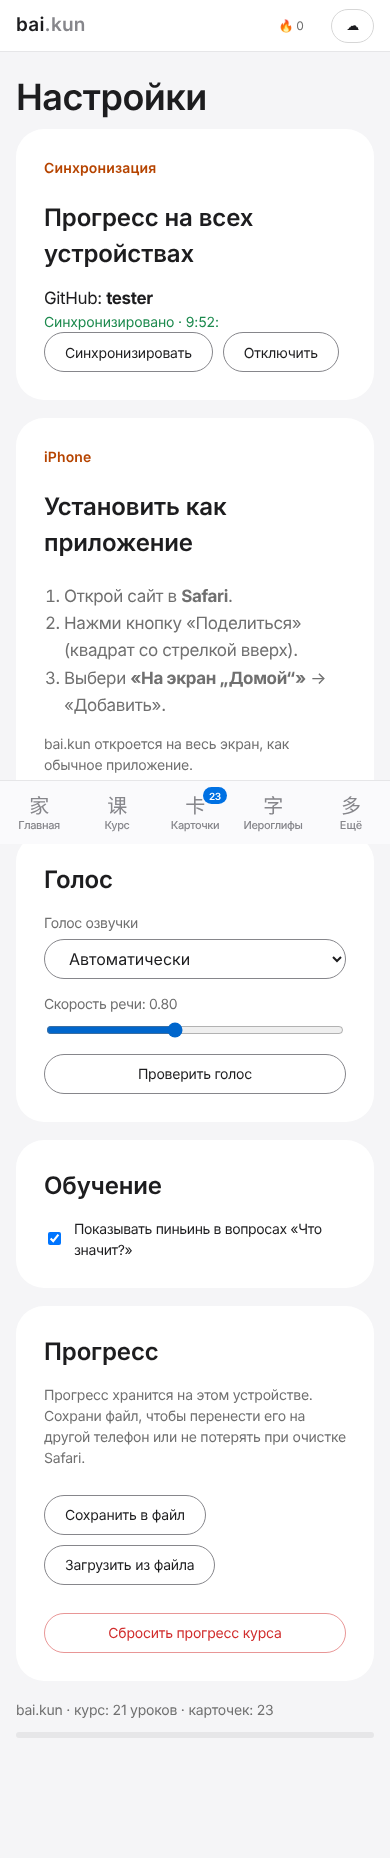
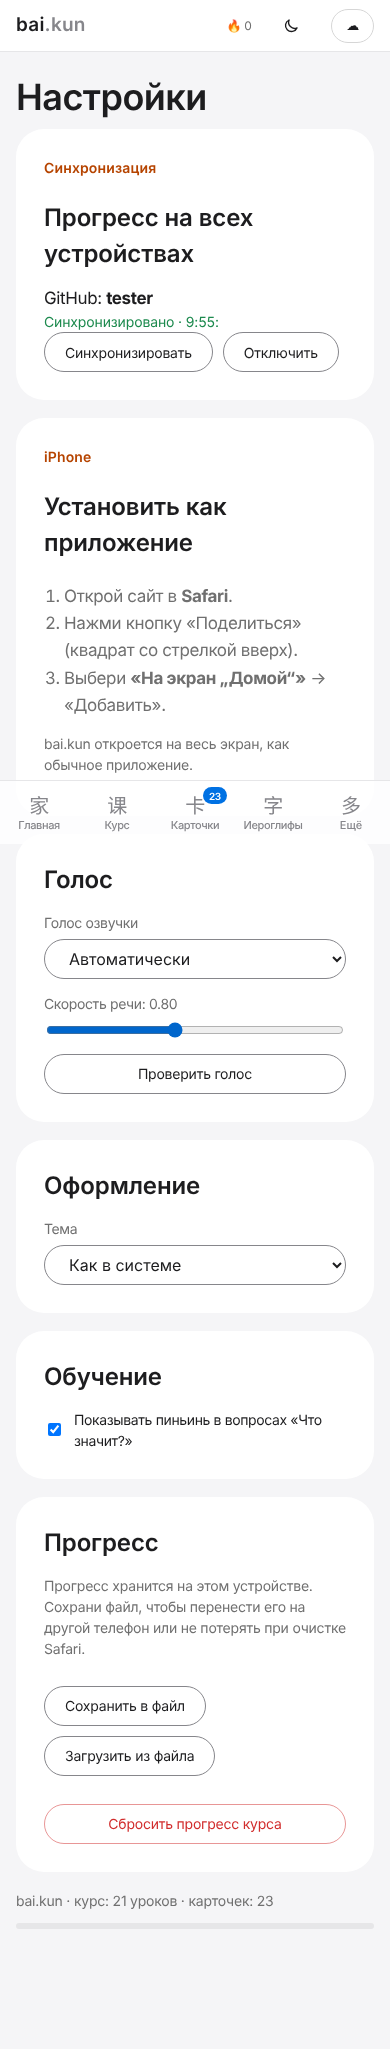
Светлая и тёмная тема на выбор, шаблоны вроде «太……了» не попадают в вопросы
Кнопка луны/солнца в шапке и выбор в настройках («Как в системе»,
светлая, тёмная); выбор синхронизируется вместе с прогрессом и
применяется до первой отрисовки, без вспышки. Главная с планетами
не менялась.

Claude-Session: https://claude.ai/code/session_014xJgYRh3HVhjU8acbcNaZs

diff --git a/src/course/x.css b/src/course/x.css
@@ -26,6 +26,9 @@
   --twilight: #d6d6d6;
   --lilac: #f5f5f7;
   --glass: #ffffff;
+  --card: #ffffff;
+  --bar: rgba(255, 255, 255, .82);
+  --good-wash: #edf7f1; --bad-wash: #fdf1f1; --blue-wash: #eaf2fd; --warn-wash: #fdf3ea;
   --glass-line: #e6e6e8;
   --good: #1d8a4e;
   --bad: #d12d2d;
@@ -413,10 +416,10 @@ select, .search { font: 15px var(--ui); color: var(--ink); background: var(--sun
    cards, compact 600-weight display type with tight tracking, one blue for
    links and small filled pills. No gradients, no shadows.
    ========================================================================== */
-html, body { background: #fff; color: var(--ink); }
+html, body { background: var(--ground); color: var(--ink); }
 body { font-family: var(--ui); letter-spacing: -.022em; font-size: 17px; }
-.stars { background: #fff; }
-.x-top { background: rgba(255, 255, 255, .82); backdrop-filter: saturate(180%) blur(20px); -webkit-backdrop-filter: saturate(180%) blur(20px); border-bottom: 1px solid var(--rule-soft); height: 52px; }
+.stars { background: var(--ground); }
+.x-top { background: var(--bar); backdrop-filter: saturate(180%) blur(20px); -webkit-backdrop-filter: saturate(180%) blur(20px); border-bottom: 1px solid var(--rule-soft); height: 52px; }
 .x-logo { color: var(--ink); font-weight: 600; font-size: 19px; letter-spacing: .012em; }
 .x-logo i { color: var(--ink-faint); }
 .x-nav a { height: 52px; color: rgba(0, 0, 0, .8); font-size: 12px; letter-spacing: -.01em; padding: 0 10px; }
@@ -452,17 +455,17 @@ body { font-family: var(--ui); letter-spacing: -.022em; font-size: 17px; }
 .chip { border-radius: 9999px; background: transparent; border: 1px solid var(--ink-faint); color: var(--ink); font-size: 14px; }
 .chip:hover, .chip.on { border-color: var(--cyan); color: var(--cyan); }
 .say { background: var(--mist); border: 0; color: var(--cyan); }
-.say.on { background: #e8f0fb; }
-select, .search { background: #fff; border: 1px solid var(--ink-faint); border-radius: 980px; color: var(--ink); padding: 0 20px; }
+.say.on { background: var(--blue-wash); }
+select, .search { background: var(--card); border: 1px solid var(--ink-faint); border-radius: 980px; color: var(--ink); padding: 0 20px; }
 :focus-visible { outline: 2px solid var(--cyan-deep); outline-offset: 3px; }
 
 /* surfaces: white cards on mist bands, 28px, no shadows */
 .x-main { background: var(--mist); min-height: calc(100vh - 52px); }
 .panel, .hero-card, .stat, .world, .lesson-card, .gram, .flash, .speak-card, .x-sheet-in a, .seg {
-  background: #fff; border: 0; border-radius: 28px; box-shadow: none;
+  background: var(--card); border: 0; border-radius: 28px; box-shadow: none;
 }
 .panel { padding: 28px; }
-.hero-card { background: #fff; padding: 48px; border-radius: 28px; }
+.hero-card { background: var(--card); padding: 48px; border-radius: 28px; }
 .hero-zh { color: var(--ink); text-shadow: none; }
 .stat { border-radius: 20px; }
 .stat b { font-family: var(--serif); font-weight: 600; font-size: 34px; color: var(--ink); letter-spacing: -.01em; }
@@ -482,56 +485,56 @@ select, .search { background: #fff; border: 1px solid var(--ink-faint); border-r
 .gram p { color: var(--ink); }
 .examples li, .line, .wordlist li { background: var(--mist); border-radius: 14px; }
 .panel .gram { background: var(--mist); }
-.pitfall { background: #fdf1f1; }
-.step { background: #fff; border: 0; border-radius: 16px; color: var(--ink-muted); }
-.step.cur { background: var(--ink); color: #fff; }
-.step.done { color: var(--good); background: #fff; }
+.pitfall { background: var(--bad-wash); }
+.step { background: var(--card); border: 0; border-radius: 16px; color: var(--ink-muted); }
+.step.cur { background: var(--ink); color: var(--card); }
+.step.done { color: var(--good); background: var(--card); }
 .step-num { border: 0; background: var(--mist); color: var(--ink); font-family: var(--serif); font-weight: 600; }
-.opt { background: #fff; border: 1px solid var(--rule); border-radius: 16px; color: var(--ink); }
+.opt { background: var(--card); border: 1px solid var(--rule); border-radius: 16px; color: var(--ink); }
 .opt:hover:not(:disabled) { border-color: var(--cyan-deep); }
-.opt.ok { border-color: var(--good); background: #edf7f1; }
-.opt.bad { border-color: var(--bad); background: #fdf1f1; }
-.tile { background: #fff; border: 1px solid var(--rule); color: var(--ink); border-radius: 14px; }
-.tile.on { border-color: var(--cyan-deep); background: #eaf2fd; }
+.opt.ok { border-color: var(--good); background: var(--good-wash); }
+.opt.bad { border-color: var(--bad); background: var(--bad-wash); }
+.tile { background: var(--card); border: 1px solid var(--rule); color: var(--ink); border-radius: 14px; }
+.tile.on { border-color: var(--cyan-deep); background: var(--blue-wash); }
 .build-line { border-color: var(--rule); }
 .flash { background: var(--mist); border-radius: 28px; color: var(--ink); }
 .flash-back { border-top-color: var(--rule); }
-.grade { background: #fff; border: 1px solid var(--rule); border-radius: 16px; color: var(--ink); }
+.grade { background: var(--card); border: 1px solid var(--rule); border-radius: 16px; color: var(--ink); }
 .grade .small { color: var(--ink-muted); }
 .speak-card { background: var(--mist); }
 .mic { background: var(--cyan-deep); color: #fff; }
 .mic.rec { background: #d12d2d; }
 .result-num, .big-num { font-family: var(--serif); font-weight: 600; color: var(--ink); letter-spacing: -.015em; }
-.seg { background: #fff; border-radius: 9999px; }
+.seg { background: var(--card); border-radius: 9999px; }
 .seg button { color: var(--ink); }
-.seg button.on { background: var(--ink); color: #fff; }
-.chart-wrap { background: #fff; border: 0; border-radius: 20px; }
-.chart th { background: #fff; color: var(--ink-muted); font-weight: 600; }
+.seg button.on { background: var(--ink); color: var(--card); }
+.chart-wrap { background: var(--card); border: 0; border-radius: 20px; }
+.chart th { background: var(--card); color: var(--ink-muted); font-weight: 600; }
 .chart td button { background: var(--mist); color: var(--ink); }
-.chart td button:hover { background: #e8f0fb; }
+.chart td button:hover { background: var(--blue-wash); }
 .chart td button.on { background: var(--cyan-deep); color: #fff; }
-.tone-btn { background: #fff; }
+.tone-btn { background: var(--card); }
 .syl-base { font-family: var(--serif); font-weight: 600; }
-.hz-cell { background: #fff; border: 0; border-radius: 16px; }
+.hz-cell { background: var(--card); border: 0; border-radius: 16px; }
 .hz-cell:hover { box-shadow: 0 0 0 1px var(--rule); }
 .stroke-grid { background:
     linear-gradient(var(--rule-soft), var(--rule-soft)) center / 100% 1px no-repeat,
-    linear-gradient(var(--rule-soft), var(--rule-soft)) center / 1px 100% no-repeat, #fff;
+    linear-gradient(var(--rule-soft), var(--rule-soft)) center / 1px 100% no-repeat, var(--card);
   border: 1px solid var(--rule); border-radius: 20px; }
-.warn { background: #fdf3ea; border: 0; color: var(--mid); border-radius: 14px; }
+.warn { background: var(--warn-wash); border: 0; color: var(--mid); border-radius: 14px; }
 .dots span { background: var(--rule); }
 .dots .past { background: #9cc0ef; }
 .dots .on { background: var(--cyan-deep); }
 .planet-dot { box-shadow: none; }
-.x-tabs { background: rgba(250, 250, 252, .92); backdrop-filter: saturate(180%) blur(20px); -webkit-backdrop-filter: saturate(180%) blur(20px); border-top: 1px solid var(--rule-soft); }
+.x-tabs { background: var(--bar); backdrop-filter: saturate(180%) blur(20px); -webkit-backdrop-filter: saturate(180%) blur(20px); border-top: 1px solid var(--rule-soft); }
 .x-tabs a, .x-tabs button { color: var(--ink-faint); }
 .x-tabs a[aria-current='page'], .x-tabs button.on { color: var(--cyan-deep); }
 .x-tabs a[aria-current='page'] .zh, .x-tabs button.on .zh { color: var(--cyan-deep); }
-.x-sheet { background: rgba(0, 0, 0, .25); }
+.x-sheet { background: rgba(0, 0, 0, .35); }
 .x-sheet-in { background: var(--frost); border-top: 1px solid var(--rule-soft); }
-.x-sheet-in a { background: #fff; color: var(--ink); border-radius: 16px; }
+.x-sheet-in a { background: var(--card); color: var(--ink); border-radius: 16px; }
 .x-sheet-in .zh { color: var(--cyan-deep); }
-.legacy .card { background: #fff; border-color: transparent; border-radius: 20px; }
+.legacy .card { background: var(--card); border-color: transparent; border-radius: 20px; }
 .sync .avatar { border: 1px solid var(--rule); }
 .sync-state { font-family: var(--ui); text-transform: none; letter-spacing: -.01em; font-size: 14px; color: var(--good); }
 .x-account { border-color: var(--rule); color: var(--ink); }
@@ -552,3 +555,23 @@ input, select, textarea { font-size: 16px; }   /* below 16px Safari zooms the pa
 .x-streak + .x-account { margin-left: 4px; }
 .lesson-n { color: var(--ink-muted); } .hero-card .eyebrow { color: var(--mid); }
 .world h3, .lesson-card h3 { color: var(--ink); }
+
+/* ---------- dark theme: same system at night ---------- */
+:root[data-theme='dark'] {
+  --navy: #000; --ground: #000; --mist: #101012; --frost: #161617; --void: #161617;
+  --surface: #1d1d1f; --raised: #1d1d1f; --sunk: #101012; --halo: #101012; --card: #1d1d1f; --glass: #1d1d1f;
+  --bar: rgba(22, 22, 23, .82);
+  --rule: #424245; --rule-soft: #2c2c2e; --glass-line: #2c2c2e; --twilight: #424245; --lilac: #2c2c2e;
+  --ink: #f5f5f7; --ink-muted: #a1a1a6; --ink-faint: #86868b;
+  --cyan: #2997ff; --cyan-deep: #0a84ff;
+  --good: #30d158; --bad: #ff6961; --mid: #ff9f0a;
+  --good-wash: #10301d; --bad-wash: #3a1614; --blue-wash: #0d2744; --warn-wash: #3a2608;
+  --t1: #5c9cf5; --t2: #30d158; --t3: #ffb340; --t4: #ff6fb5; --t5: #98989d;
+  --t1-wash: #16243a; --t2-wash: #102a1f; --t3-wash: #2c1f0c; --t4-wash: #2e1526;
+}
+:root[data-theme='dark'] .x-logo i { color: var(--ink-faint); }
+:root[data-theme='dark'] .x-nav a { color: rgba(255, 255, 255, .8); }
+:root[data-theme='dark'] .x-nav a[aria-current='page'] { color: #fff; }
+.theme-btn { display: inline-flex; align-items: center; justify-content: center; width: 32px; height: 32px; border-radius: 50%; border: 0; background: transparent; color: var(--ink); cursor: pointer; }
+.theme-btn:hover { background: var(--mist); }
+.theme-btn svg { width: 18px; height: 18px; }

diff --git a/src/App.tsx b/src/App.tsx
@@ -32,11 +32,26 @@ export default function App() {
   useEffect(() => {
     navigator.serviceWorker?.getRegistrations().then((r) => r.forEach((x) => x.unregister())).catch(() => {});
     if ('caches' in window) caches.keys().then((k) => k.forEach((x) => caches.delete(x))).catch(() => {});
-    document.documentElement.dataset.theme = 'light';
     // Ask the browser not to evict saved progress under storage pressure.
     navigator.storage?.persist?.().catch(() => {});
   }, []);
   useEffect(() => setMore(false), [route]);
+
+  // Light or dark: the learner's choice, or the system's when set to auto.
+  const themePref = state?.settings.theme ?? 'auto';
+  const [systemDark, setSystemDark] = useState(() => window.matchMedia?.('(prefers-color-scheme: dark)').matches ?? false);
+  useEffect(() => {
+    const mq = window.matchMedia?.('(prefers-color-scheme: dark)');
+    const on = (e: MediaQueryListEvent) => setSystemDark(e.matches);
+    mq?.addEventListener('change', on);
+    return () => mq?.removeEventListener('change', on);
+  }, []);
+  const theme = themePref === 'auto' ? (systemDark ? 'dark' : 'light') : themePref;
+  useEffect(() => {
+    document.documentElement.dataset.theme = theme;
+    document.querySelector('meta[name="theme-color"]')?.setAttribute('content', theme === 'dark' ? '#161617' : '#ffffff');
+    try { localStorage.setItem('baikun-theme', theme); } catch { /* ignore */ }
+  }, [theme]);
 
   const head = route[0] ?? '';
   const active = head === 'lesson' ? 'course' : head;
@@ -66,6 +81,14 @@ export default function App() {
           {NAV.map((n) => <a key={n.key} href={n.href} aria-current={active === n.key ? 'page' : undefined}>{n.label}{n.key === 'cards' && due > 0 && <span className="pill">{due}</span>}</a>)}
         </nav>
         {state && <span className="x-streak" title="Дней подряд">🔥 {state.streak}</span>}
+        {state && (
+          <button type="button" className="theme-btn" aria-label={theme === 'dark' ? 'Светлая тема' : 'Тёмная тема'} title={theme === 'dark' ? 'Светлая тема' : 'Тёмная тема'}
+            onClick={() => actions.setSettings({ theme: theme === 'dark' ? 'light' : 'dark' })}>
+            {theme === 'dark'
+              ? <svg viewBox="0 0 24 24" fill="none" stroke="currentColor" strokeWidth="1.8" strokeLinecap="round"><circle cx="12" cy="12" r="4" /><path d="M12 2v2M12 20v2M4.9 4.9l1.4 1.4M17.7 17.7l1.4 1.4M2 12h2M20 12h2M4.9 19.1l1.4-1.4M17.7 6.3l1.4-1.4" /></svg>
+              : <svg viewBox="0 0 24 24" fill="none" stroke="currentColor" strokeWidth="1.8" strokeLinejoin="round"><path d="M20 14.5A8 8 0 0 1 9.5 4a8 8 0 1 0 10.5 10.5z" /></svg>}
+          </button>
+        )}
         {gh.connected && <a className="x-account" href="#/settings" title={`Прогресс синхронизируется с GitHub: ${gh.login}`}><span>{gh.status === 'syncing' ? '⟳' : gh.status === 'error' ? '!' : '☁'}</span></a>}
         {cloudConfigured && (
           <a className="x-account" href="#/settings" title={cloud.user ? `Синхронизация: ${cloud.user.email}` : 'Войти через Google'}>

diff --git a/src/course/exercises.ts b/src/course/exercises.ts
@@ -114,9 +114,11 @@ function poolFor(lesson: Lesson): Word[] {
 }
 
 const limit = <T,>(a: T[], n: number) => shuffle(a).slice(0, n);
+/** Pattern entries such as «太……了» are taught in grammar, not quizzed as words. */
+const quizWords = (l: Lesson) => l.words.filter((w) => !w.zh.includes('…'));
 
-export function pinyinSet(l: Lesson): Question[] { return limit(l.words, 8).map((w) => pinyinQ(w, poolFor(l))); }
-export function toneSet(l: Lesson): Question[] { return limit(l.words, 8).map(toneQ); }
+export function pinyinSet(l: Lesson): Question[] { return limit(quizWords(l), 8).map((w) => pinyinQ(w, poolFor(l))); }
+export function toneSet(l: Lesson): Question[] { return limit(quizWords(l), 8).map(toneQ); }
 
 export function sentencesOf(l: Lesson): { zh: string; py: string; ru: string }[] {
   return [
@@ -127,7 +129,7 @@ export function sentencesOf(l: Lesson): { zh: string; py: string; ru: string }[]
 
 export function listenSet(l: Lesson): Question[] {
   const sents = sentencesOf(l);
-  const words = limit(l.words, 4).map((w) => listenQ(w, poolFor(l)));
+  const words = limit(quizWords(l), 4).map((w) => listenQ(w, poolFor(l)));
   const lines = limit(sents, 4).map((s) => listenQ(s, sents.length >= 4 ? sents : [...sents, ...ALL_WORDS]));
   return [...words, ...lines];
 }
@@ -139,7 +141,7 @@ export function buildSet(l: Lesson, n = 3): Question[] {
 
 export function testSet(l: Lesson): Question[] {
   const pool = poolFor(l);
-  const ws = shuffle(l.words);
+  const ws = shuffle(quizWords(l));
   const qs: Question[] = [
     ...ws.slice(0, 3).map((w) => meaningQ(w, pool)),
     ...ws.slice(3, 6).map((w) => reverseQ(w, pool)),

diff --git a/src/course/Pages.tsx b/src/course/Pages.tsx
@@ -443,6 +443,13 @@ export function Settings() {
         <button className="btn" onClick={() => say('你好，欢迎！')}>Проверить голос</button>
       </section>
       <section className="panel form">
+        <h3>Оформление</h3>
+        <label>Тема
+          <select value={state.settings.theme ?? 'auto'} onChange={(e) => actions.setSettings({ theme: e.target.value as 'auto' | 'light' | 'dark' })}>
+            <option value="auto">Как в системе</option><option value="light">Светлая</option><option value="dark">Тёмная</option>
+          </select></label>
+      </section>
+      <section className="panel form">
         <h3>Обучение</h3>
         <label className="check"><input type="checkbox" checked={state.settings.showPinyin} onChange={(e) => actions.setSettings({ showPinyin: e.target.checked })} /> Показывать пиньинь в вопросах «Что значит?»</label>
       </section>

diff --git a/app/index.html b/app/index.html
@@ -34,9 +34,17 @@
     <style>
       /* Painted before the stylesheet parses, so the first frame is never white
          on a dark desktop. */
-      :root { color-scheme: light; }
+      :root { color-scheme: light dark; }
       html, body { background: #f5f5f7; }
+      html[data-theme='dark'], html[data-theme='dark'] body { background: #101012; }
     </style>
+    <script>
+      try {
+        var t = localStorage.getItem('baikun-theme');
+        if (!t) t = matchMedia('(prefers-color-scheme: dark)').matches ? 'dark' : 'light';
+        document.documentElement.dataset.theme = t;
+      } catch (e) {}
+    </script>
   </head>
   <body>
     <div id="root"></div>

diff --git a/src/course/store.ts b/src/course/store.ts
@@ -37,6 +37,7 @@ export interface CourseSettings {
   voiceURI: string | null;
   showPinyin: boolean;
   cardFront: 'zh' | 'ru';
+  theme: 'auto' | 'light' | 'dark';
 }
 
 export interface CourseState {
@@ -57,7 +58,7 @@ const KEY = 'xinghan-course-v1';
 export function emptyCourse(): CourseState {
   return {
     v: 1, lessons: {}, cards: {}, last: null, xp: 0, streak: 0, bestStreak: 0, lastDay: null, days: {},
-    settings: { rate: 0.8, voiceURI: null, showPinyin: true, cardFront: 'zh' },
+    settings: { rate: 0.8, voiceURI: null, showPinyin: true, cardFront: 'zh', theme: 'auto' },
   };
 }
 
